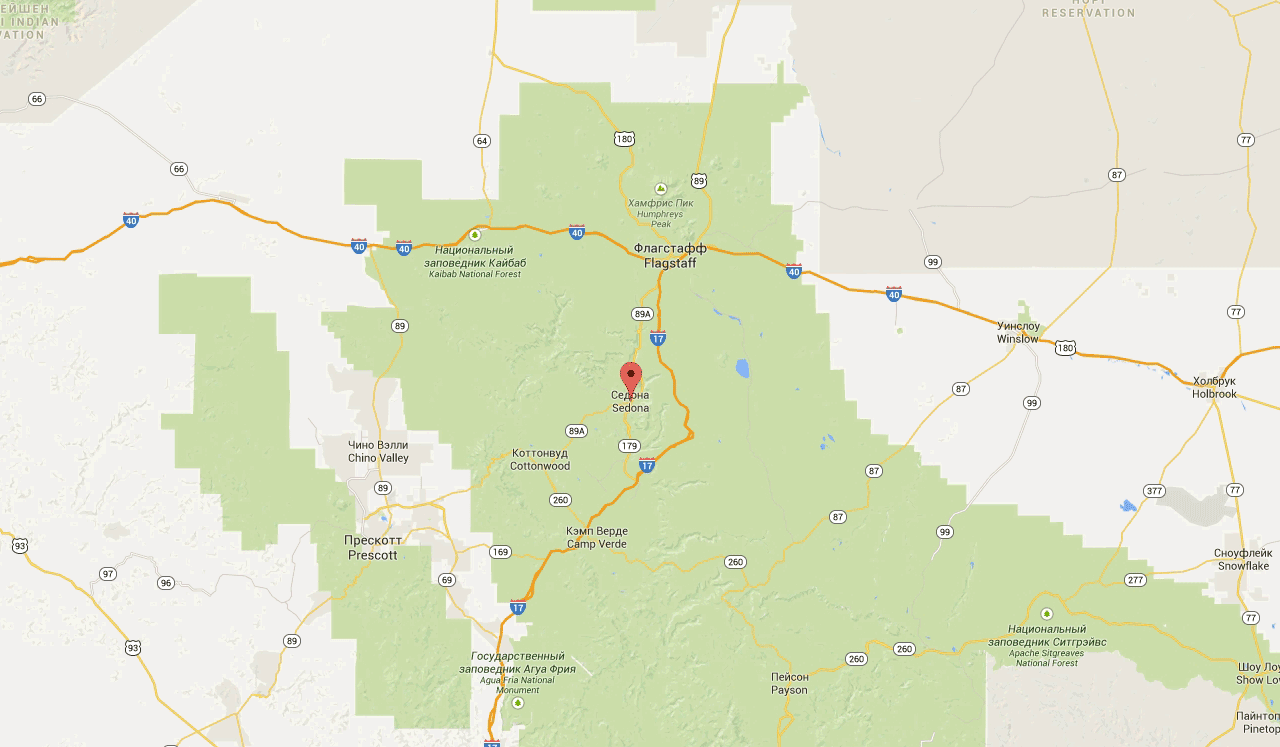
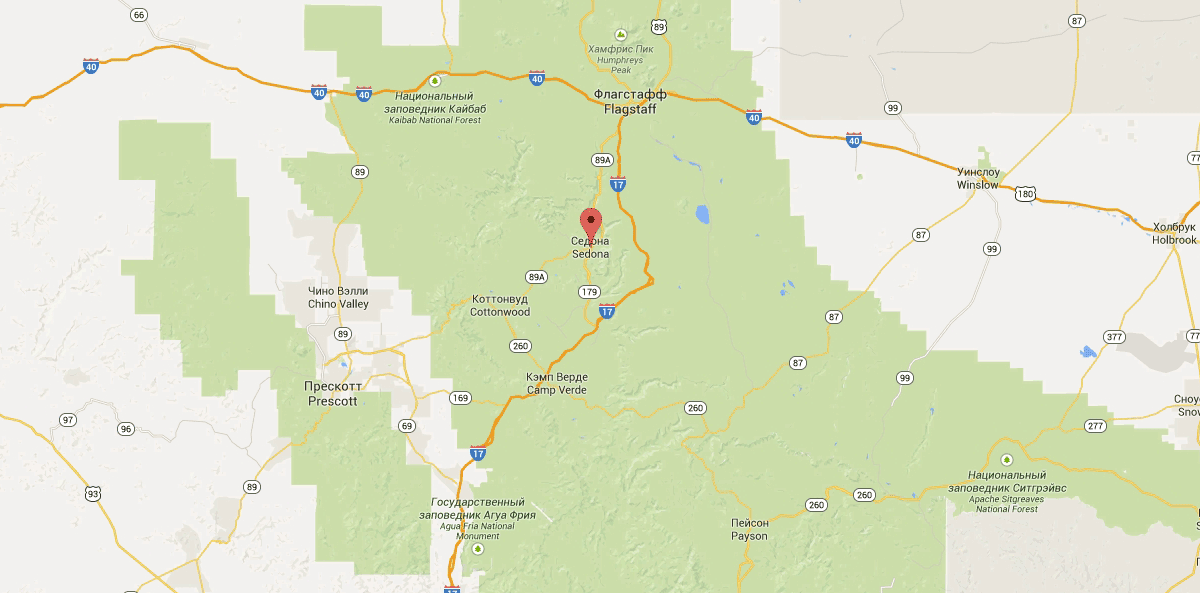
Раздел visit главной страницы седоны.

diff --git a/sedona/css/styles.css b/sedona/css/styles.css
@@ -2,7 +2,7 @@ body {
     font-size: 14px;
     line-height: 21px;
     color: black;
-    font-weight: bold;
+    font-weight: normal;
     font-family: "PT Sans", Arial, sans-serif;
     background: #f2f2f2;
     text-transform: uppercase;
@@ -39,11 +39,15 @@ h2 {
     clear: both;
 }
 
+.main-navigation {
+    font-weight: bold;
+    text-align: center;
+}
+
 .main-navigation ul {
     margin: 0;
     padding: 0;
     list-style: none;
-    text-align: center;
 }
 
 .main-navigation li {
@@ -106,7 +110,6 @@ h2 {
 
 .intro {
     text-align: center;
-    font-weight: normal;
     margin-top: 55px;
     margin-bottom: 50px;
 }
@@ -135,7 +138,6 @@ h2 {
 
 .secondary-reason p {
     padding: 0 15%;
-    font-weight: normal;
     color: #333;
 }
 
@@ -161,14 +163,39 @@ h2 {
     background: #81b3d2;
 }
 
-.primary-reason-text p {
-    font-weight: normal;
-}
-
 .pull-left {
     float: left;
 }
 
 .pull-right {
     float: right;
+}
+
+.visit {
+    text-align: center;
+    padding-top: 35px;
+}
+
+.visit p {
+    margin-top: 30px;
+    margin-bottom: 50px;
+}
+
+.search-form .form-controls {
+    display: none;
+}
+
+.search-form .form-toggle-btn {
+    min-height: 60px;
+    width: 567px;
+    padding: 30px 40px;
+    background: #766357;
+    border: none;
+    color: #fff;
+    font-weight: bold;
+    font-size: 21px;
+    line-height: 26px;
+    text-align: center;
+    text-transform: uppercase;
+    outline: none;
 }

diff --git a/sedona/index.html b/sedona/index.html
@@ -100,7 +100,7 @@
         <p>Укажите предполагаемые даты поездки<br>
            и мы покажем вам лучшие предложения гостиниц в Седоне</p>
         <form class="search-form">
-          <button class="form-toggle-btn">Поиск гостиницы в Седоне</button>
+          <button type="button" class="form-toggle-btn">Поиск гостиницы в Седоне</button>
           <fieldset class="form-controls">
             <label>
               Дата заезда:
@@ -125,7 +125,7 @@
         </form>
         <div class="map">
           <!-- заглушка для интерактивной карты -->
-          <img src="img/map.png" width="1280" height="747" alt="Карта">
+          <img src="img/map.png" width="1200" height="593" alt="Карта">
         </div>
       </section>
     </main>
